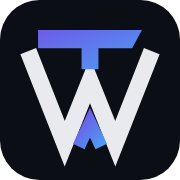
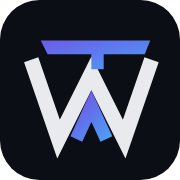
Rebuild the monogram to the reference proportions
The first pass forced a landscape mark into a square viewBox, which
stretched it vertically: short outer arms, shallow legs, a high middle
peak. That silhouette read as a W rather than the Y the outer stroke is
meant to carry.

Redrawn on a 100x77 viewBox matching the reference's roughly 4:3
footprint. Outer arms now run corner to corner as long diagonals, the
legs reach 74 instead of stopping short, the peak sits lower, and the
T bar spans nearly the full width with its stem offset right so it
interlocks with the peak the way the reference does. The A is centred
on the peak and sized to clear the inner strokes by a consistent margin
on both sides.

Favicon and the 32/180/512 PNGs regenerated from the same geometry.
Nav grew 5px and still fits every width from 320 to 1440.

Claude-Session: https://claude.ai/code/session_01NPZxExQ31yAZt6ggK5aVj1

Changed region(s): [[0.1111, 0.1667, 0.8889, 0.9167], [0.1389, 0.4167, 0.1667, 0.4444]]

diff --git a/index.html b/index.html
@@ -210,22 +210,22 @@
      rewrites per section, so the mark recolours as the page moves. The W is
      var(--text) and the canvas is transparent, so it sits on whatever is behind it. */
   .logo-mark{
-    width:1.25rem;
-    height:1.25rem;
+    width:1.5rem;
+    height:1.16rem;   /* the mark is landscape, 100:77 to match the viewBox */
     display:block;
     overflow:visible;
   }
-  .logo-mark .logo-w{
+  .logo-mark .logo-y{
     fill:none;
     stroke:var(--text);
-    stroke-width:11;
+    stroke-width:10;
     stroke-linejoin:miter;
   }
   .logo-mark .logo-t{ fill:url(#logoGrad); }
   .logo-mark .logo-a{
     fill:none;
     stroke:url(#logoGrad);
-    stroke-width:8;
+    stroke-width:8.5;
     stroke-linejoin:miter;
   }
   .logo-stop-a{ stop-color:var(--accent); transition:stop-color 0.8s var(--ease); }
@@ -754,15 +754,15 @@
 
 <nav id="siteNav">
   <span class="nav-name">
-    <svg class="logo-mark" viewBox="0 0 100 100" role="img" aria-label="Akein Tsung">
+    <svg class="logo-mark" viewBox="0 0 100 77" role="img" aria-label="Akein Tsung">
       <title>Akein Tsung</title>
       <linearGradient id="logoGrad" x1="0" y1="0" x2="1" y2="1">
         <stop class="logo-stop-a" offset="0%"></stop>
         <stop class="logo-stop-b" offset="100%"></stop>
       </linearGradient>
-      <path class="logo-w" d="M6 21 L32 87 L50 42 L68 87 L94 21"></path>
-      <path class="logo-t" d="M13 6 H87 L80 19 H55.5 V34 H44.5 V19 H13 Z"></path>
-      <path class="logo-a" d="M42 88 L50 70 L58 88"></path>
+      <path class="logo-y" d="M7 16 L27 74 L51 26 L75 74 L95 16"></path>
+      <path class="logo-t" d="M14 2 H94 L90 12 H60 V23 H51 V12 H19 Z"></path>
+      <path class="logo-a" d="M40 74 L51 50 L62 74"></path>
     </svg>
   </span>
   <a href="#about" class="nav-link"><span class="nav-label">About</span></a>
